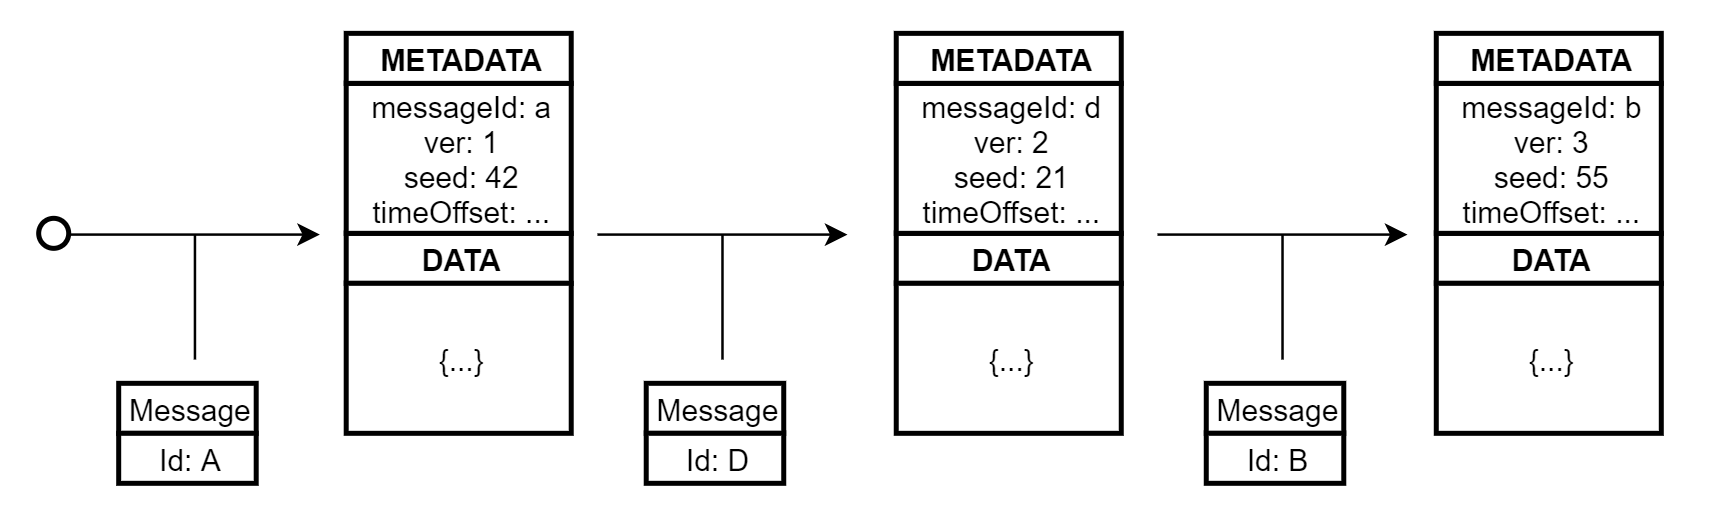
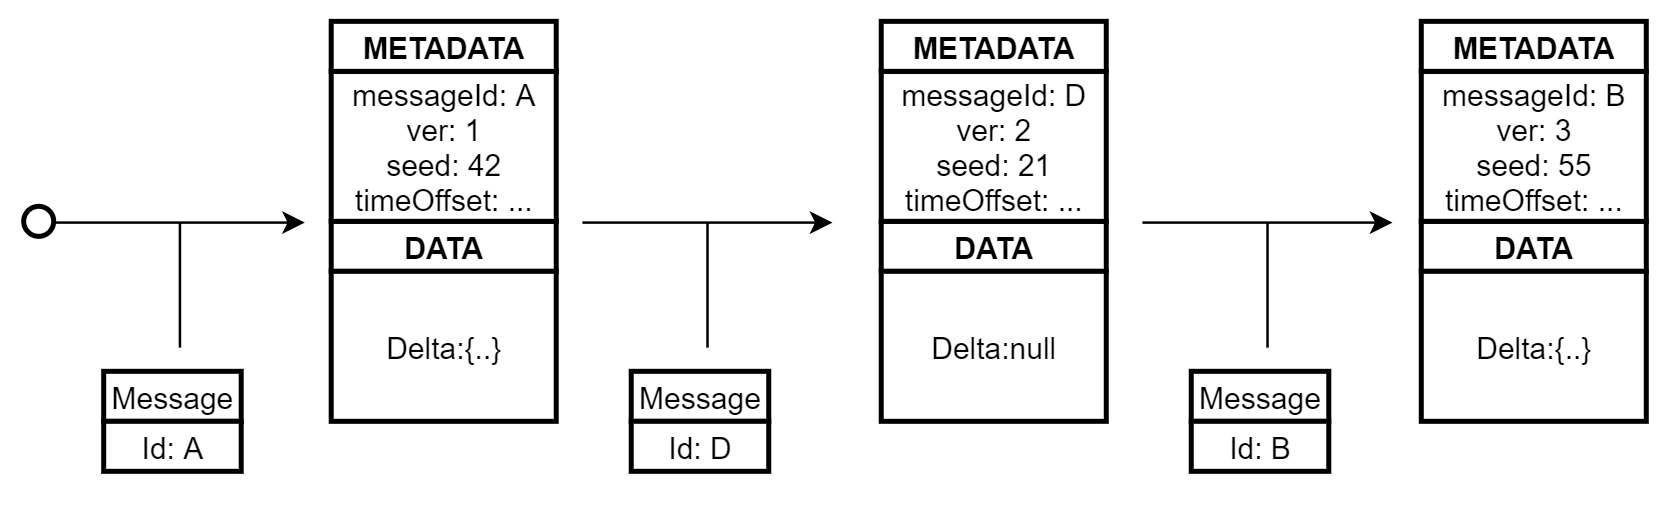
step 4

Changed region(s): [[0.0, 0.0297, 0.9958, 0.9505], [0.3734, 0.7129, 0.4668, 0.9505], [0.0622, 0.7129, 0.1556, 0.9505]]

diff --git a/content/posts/state-based-consistent-messaging.md b/content/posts/state-based-consistent-messaging.md
@@ -76,39 +76,76 @@ var stream = await ReadStream(partition, properties =>
 
 The lambda passed as the last argument to `ReadStream` gets invoked for every event in a stream unless it returns false which indicates the end of the read. 
 
+The duplicate detection requires that input message id is always captured, even if handling logic execution results in no state changes - [ShootingRange](https://github.com/exactly-once/state-based-consistent-messaging/blob/master/StateBased.ConsistentMessaging/StateBased.ConsistentMessaging/Domain/ShootingRange.cs#L9) handler logic for `FireAt` message is a good example of such case. In order to handle such case a dummy event is being stored with empty state delta.
+
 #### Processing logic
 
-TODO: show the handler logic and show why it needs to be deterministic
-  * Discuss time, guid, random consideration
+At the business logic level the message handling doesn't require any infrastructural checks to ensure consistency:
+
+{{< highlight c "linenos=inline,hl_lines=7,linenostart=1" >}}
+public void Handle(IHandlerContext context, FireAt command)
+{
+   if (Data.TargetPosition == command.Position)
+   {
+         context.Publish(new Hit
+         {
+            Id = context.NewGuid(),
+            GameId = command.GameId
+         });
+   }
+   else
+   {
+         context.Publish(new Missed
+         {
+            Id = context.NewGuid(),
+            GameId = command.GameId
+         });
+   }
+}
+{{< / highlight >}}
+
+That said, line 7 where `Hit` message id is generated deserves more discussion. We are not using a standard libarary call to generate a Guid for a reason. As `Guid` generation logic is undeterministic form business logic perspective we can't use without breaking the second [requirement](#context). We need to make sure that on every re-processing of the same message the value of the guid will be identical to the origianl one. Some kind of seed data is needed to enable that - in our example the input message id plays that role and gets passed to the context just before handler execution:
+
+{{< highlight c "linenos=inline,hl_lines=4,linenostart=1" >}}
+static List<Message> InvokeHandler<THandler, THandlerState>(...)
+{
+   var handler = new THandler();
+   var handlerContext = new HandlerContext(inputMessage.Id);
+
+   ((dynamic) handler).Data = state;
+   ((dynamic) handler).Handle(handlerContext, inputMessage);
+   
+   return handlerContext.Messages;
+}
+{{< / highlight >}}
 
 
+Guid generation scenario touches on a more general case. The same kind of problem will exist for logic that uses random variables, time offsets or any other environmental variables that can change in between message invocations. In order to handle these cases as well we would need to caputre necessary invocation context in the event metadata (as show on the ) and expose utility methods on the `IHandlerContext` intance passed to the business logic.  
 
-### Pattern
- * Context
- * Tradeoffs
- * Pros and cons
-   * Versioning is a problem
+TODO: add information that only available operations are state modifications and message publication
 
+### Pros and cons
 
+We already mentioned the requirements needed for the state-based approach to message consistency. It's time to clarify what are advantages and disadvantages of this approach.
 
-ToC:
+Advantages:
 
- - What is consistent messaging? Two parts: state changes and output messages
- - Approach that assumes:
-    - "Point-in-time" state availability (event sorucing is just one example)
-    - Deterministic message handler logic
-    - Concurrency control on the state changes
- - Algorithm
-    - We have a sequence of states each state is "after-msg-x-being-processed"
-    - We extend the state with message logical id,
-    - When a message arrives we check if it's already been processed
- - Most interesting code fragments
-    - How we invoke the handler and operate over event sourced data
- - Summary
-    - Context:
-    - Pros:
-    - Cons:
- - Stay tuned
+* Easy additon to event sorucing.
+* Flexible de-duplication period based on the stream truncation rules.
 
+Disadvantages
 
+* Versioning might be harder.
+* Stream size is proportional to number of messages processed.
+* Esuring deterministic logic requires attention.
+
+### Other approaches
+
+AzureFunctions and asnc-await
+
+TODO: 
+ * talk about de-duplication period configuration, 
+ * check links and add link to AzureFunctions
+
+ 
 [^1]: 
